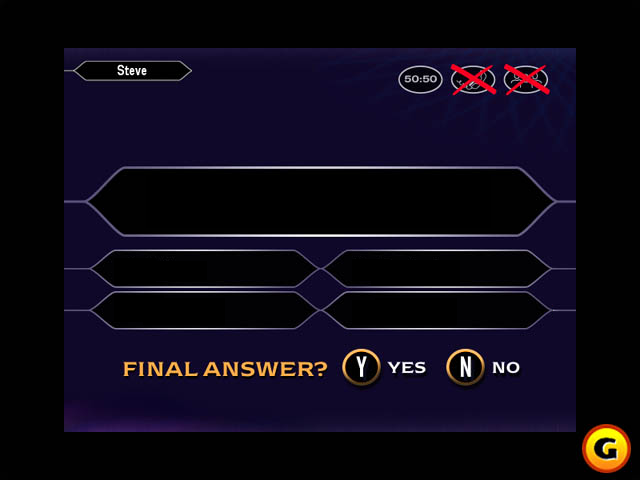
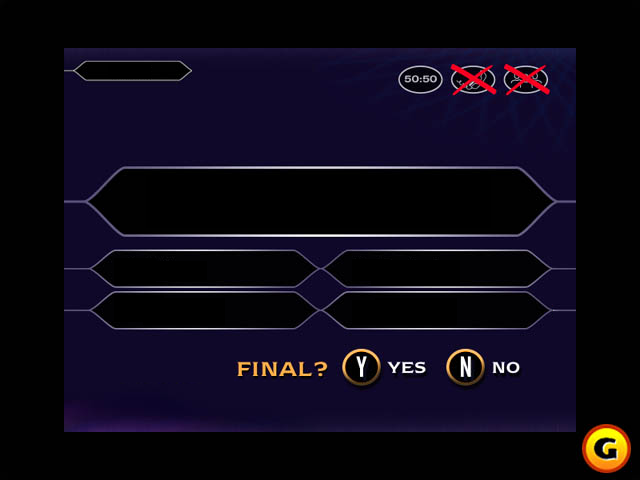
Added yes button
git-svn-id: http://ksp-man-vs-machine.googlecode.com/svn@7 12315313-9e2a-11e5-be5b-b7359ef36bf2

Changed region(s): [[0.1875, 0.75, 0.5, 0.8125], [0.1875, 0.125, 0.25, 0.1562]]

diff --git a/frontend/frontend.py b/frontend/frontend.py
@@ -20,8 +20,10 @@ for i in range (0, 4):
 	hbox.add (gtk.Label (name))
 	hbox.add (gtk.Entry ())
 	options += [hbox]
+
 question = gtk.Entry ()
 question.set_width_chars (52)
+name = gtk.Label ('      Steve      ')
 
 fixed.put (img, 0, 0)
 fixed.put (options[0], 120, 258)
@@ -29,6 +31,22 @@ fixed.put (options[1], 348, 258)
 fixed.put (options[2], 120, 300)
 fixed.put (options[3], 348, 300)
 fixed.put (question, 110, 190)
+
+# name
+name.set_alignment (xalign = 0, yalign = 0.5)
+#name.set_size_request (95, -1)
+#name.set_max_width_chars (15)
+#name.set_width_chars (15)
+fixed.put (name, 90, 62)
+
+#ack button
+ack = gtk.Button ()
+ack_im = gtk.Image()
+ack_im.set_from_file ('images/yes.png')
+ack.set_relief (gtk.RELIEF_NONE)
+#ack.set_size_request (100, -1)
+ack.set_image (ack_im)
+fixed.put (ack, 335, 345)
 
 w.connect('destroy', gtk.main_quit)
 w.show_all ()
